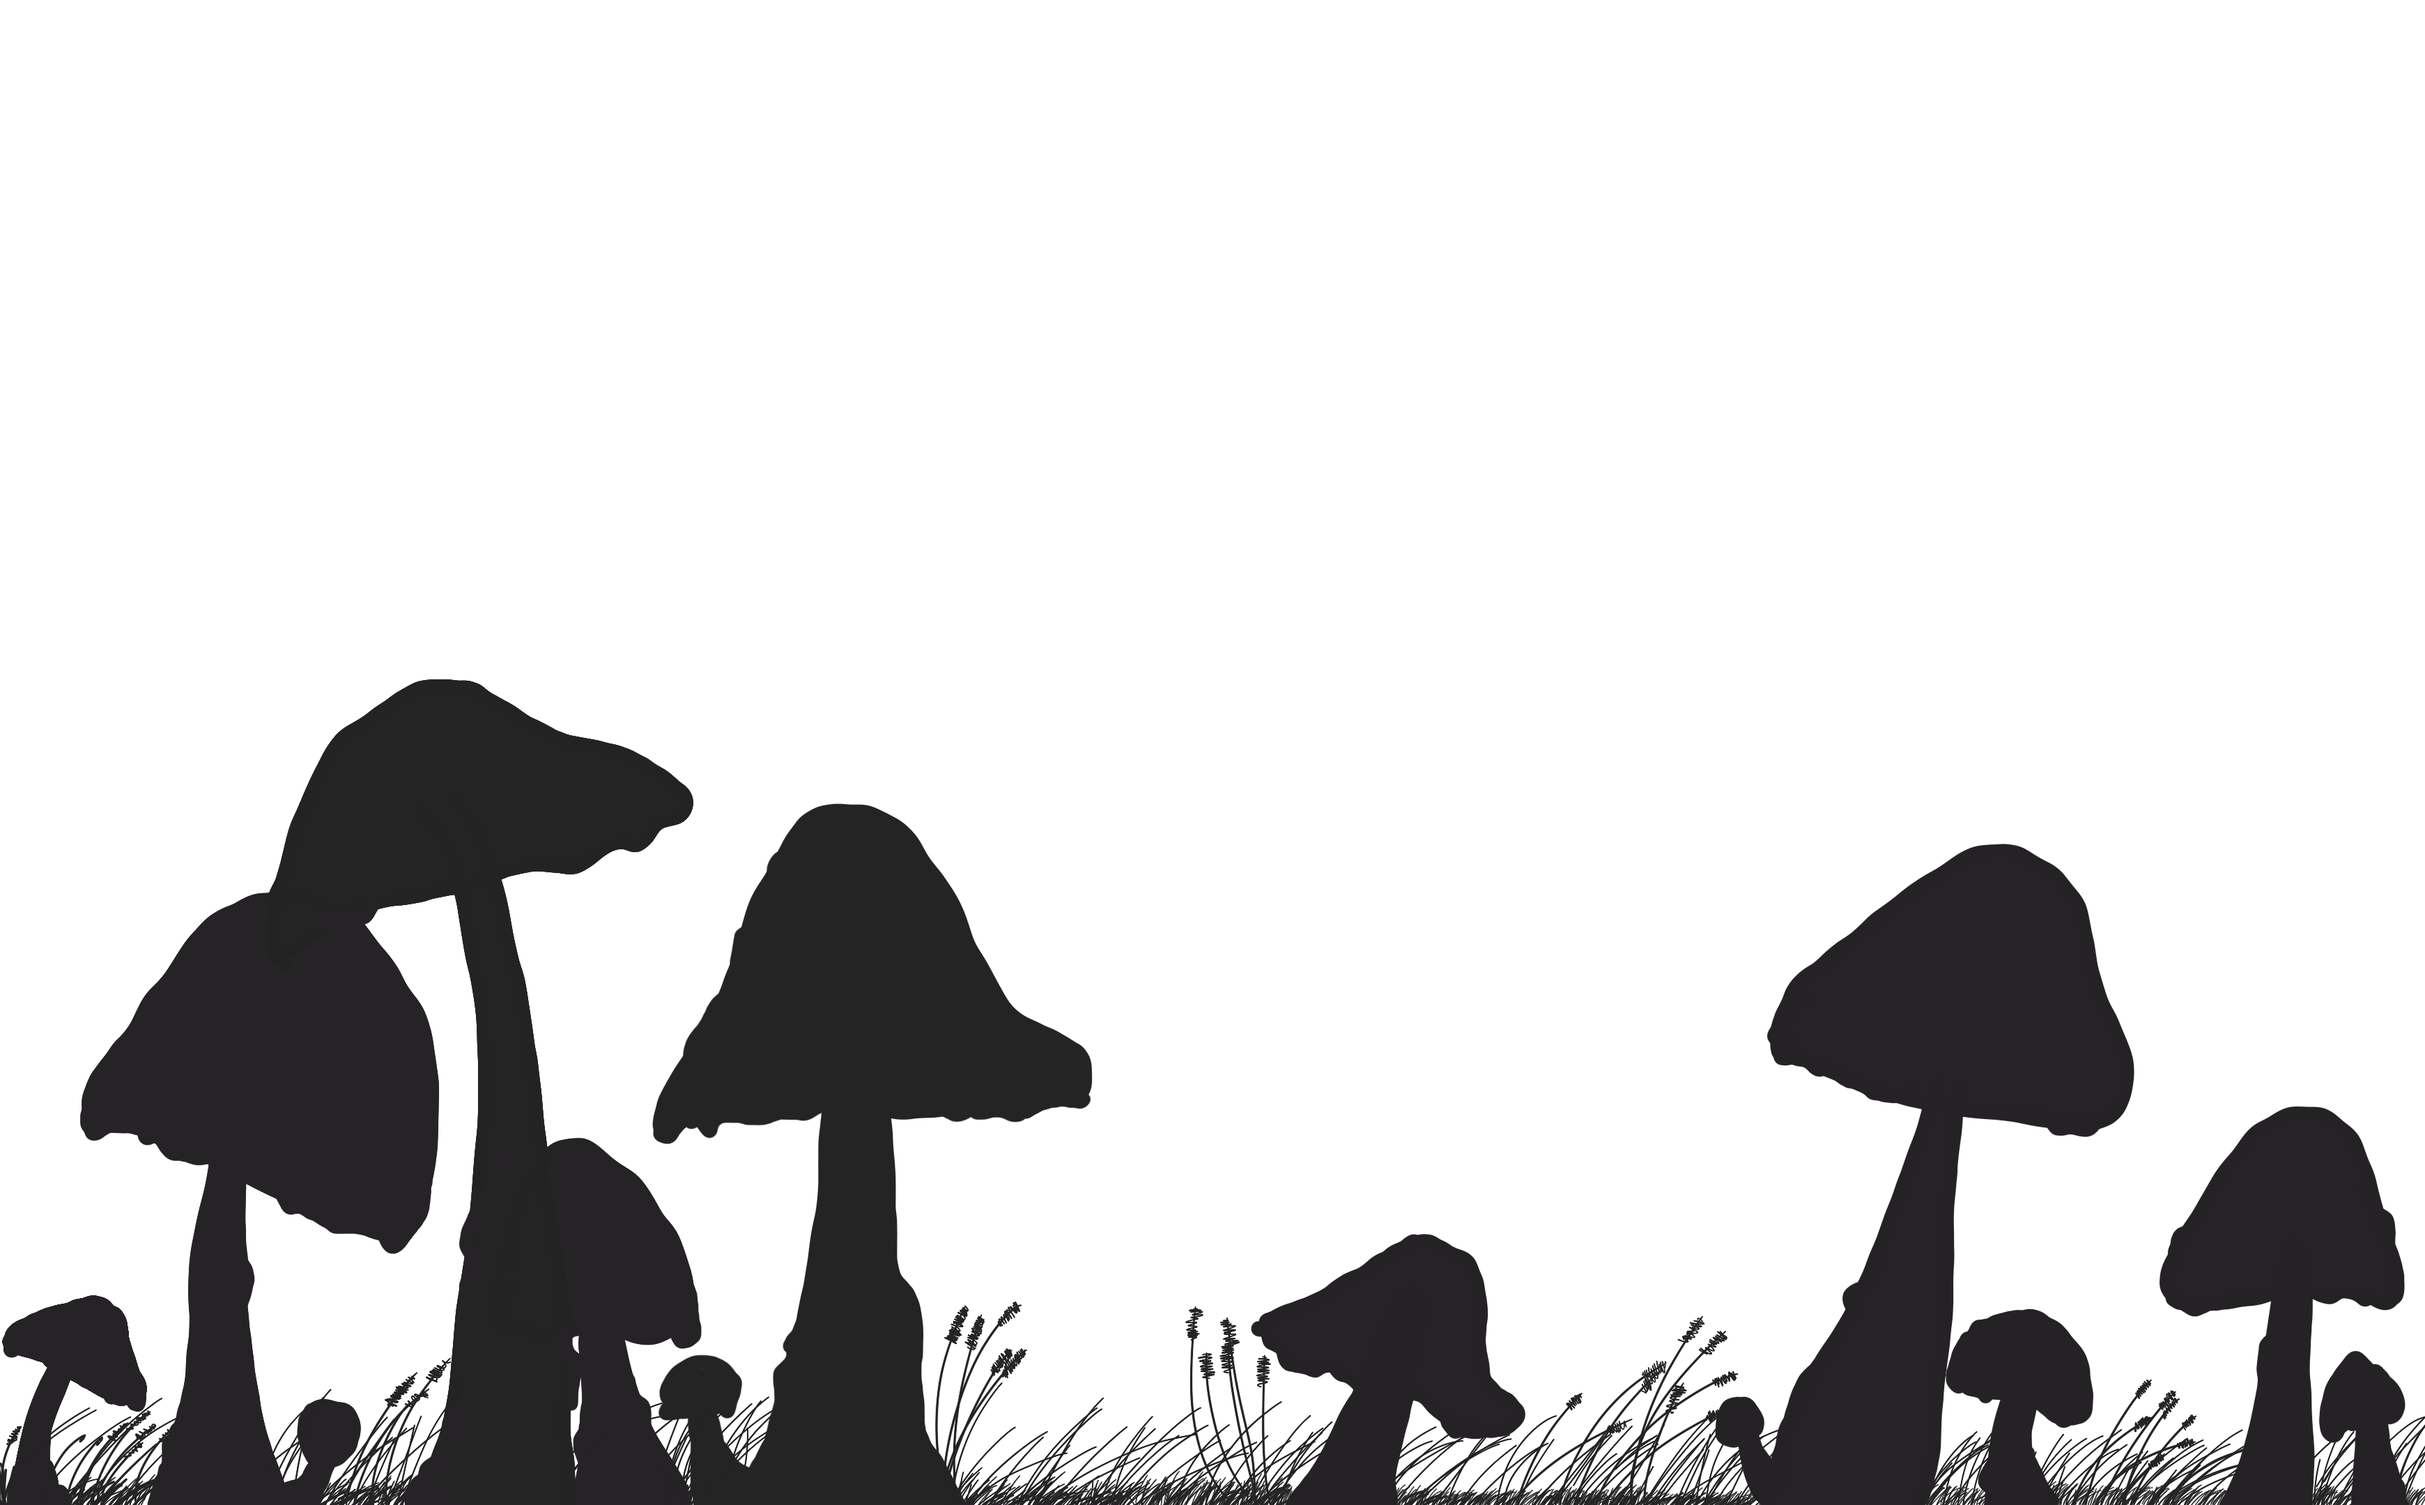
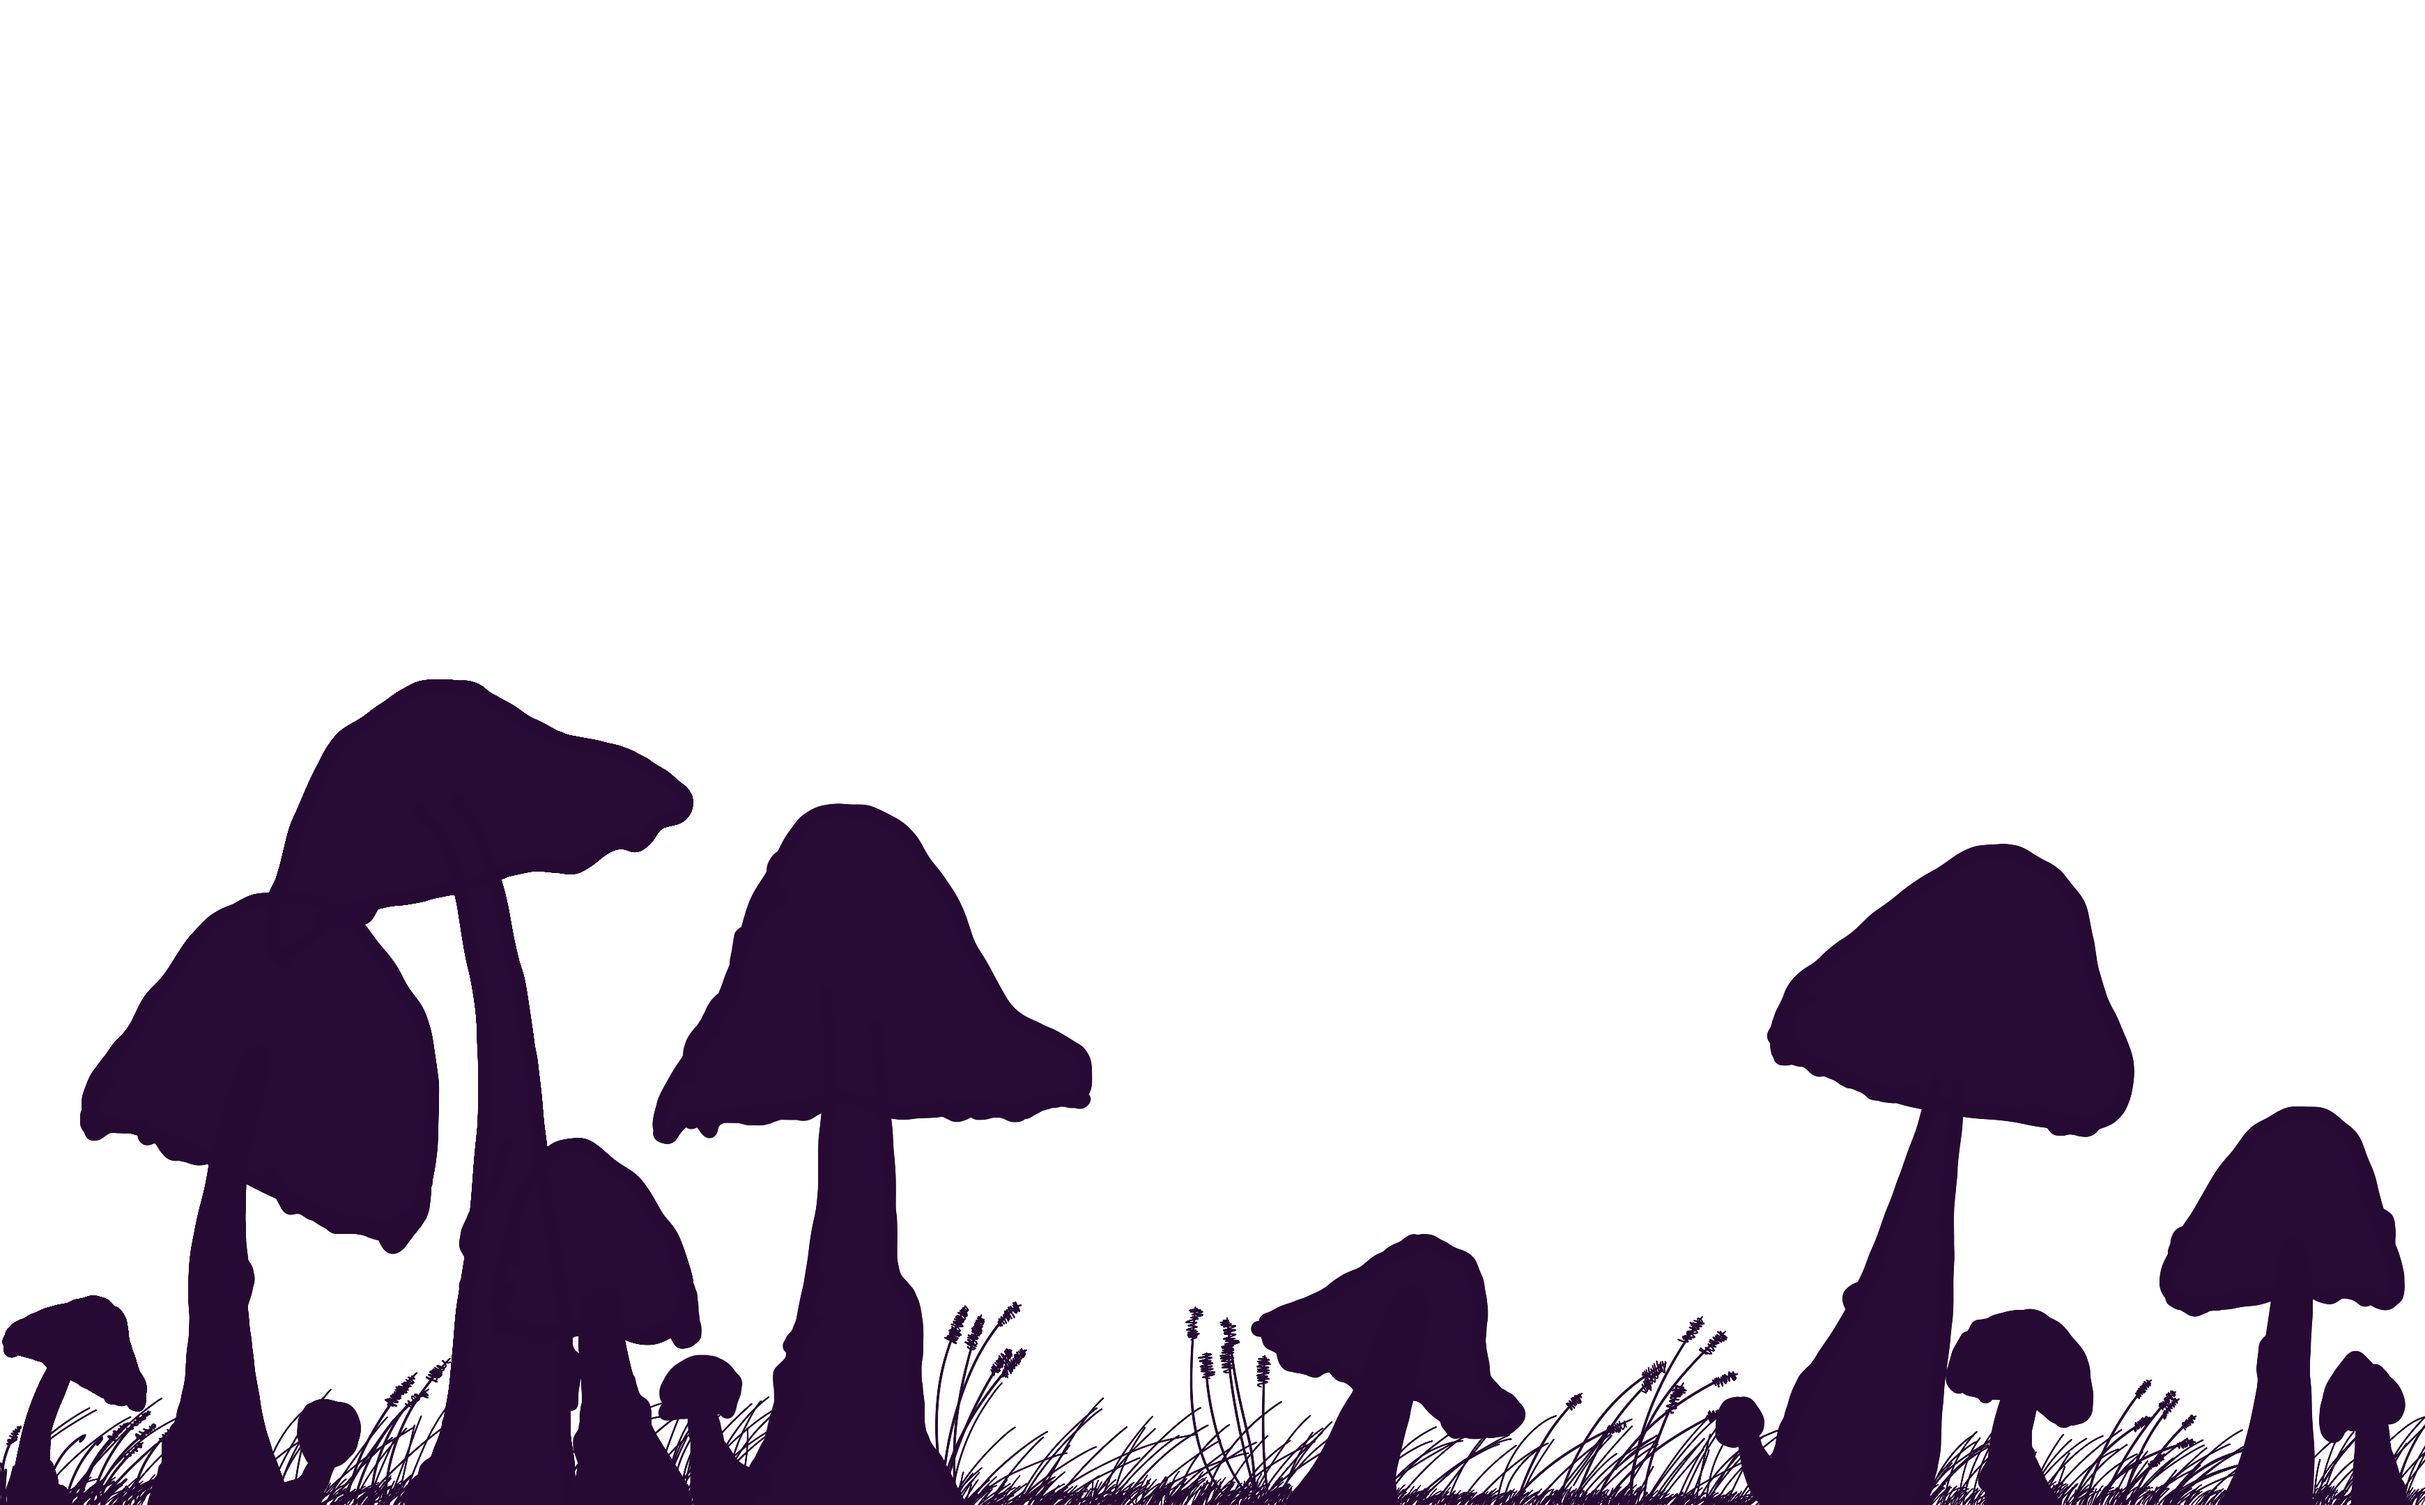
New commit

Changed region(s): [[0.0, 0.4343, 0.7448, 1.0], [0.7759, 0.9306, 1.0, 1.0]]

diff --git a/js/script.js b/js/script.js
@@ -23,6 +23,31 @@ enterButton.addEventListener("click", function () {
   }, 3000);
 });
 
+// ANIMATION: appearence from top to bottom
+const headingsToAnimate = document.querySelectorAll("h1, h2");
+const pToAnimate = document.querySelectorAll("p");
+
+// Creating an Intersection Observer instance
+const observer = new IntersectionObserver((entries) => {
+  entries.forEach((entry) => {
+    if (entry.isIntersecting) {
+      // Add the 'animate' class when the element is in the viewport
+      entry.target.classList.add("animate");
+      // Stop observing once animation is applied
+      observer.unobserve(entry.target);
+    }
+  });
+});
+
+// Start observing each heading element
+headingsToAnimate.forEach((heading) => {
+  observer.observe(heading);
+});
+
+pToAnimate.forEach((paragraph) => {
+  observer.observe(paragraph);
+});
+
 // IMPORTANCE SECTION
 // Function to check if an element is in the viewport
 function isElementInViewport(el) {
@@ -41,7 +66,7 @@ function animateImage() {
   const drippingImg = document.getElementById("dripping-img");
 
   if (isElementInViewport(drippingImg)) {
-    drippingImg.style.height = "50%";
+    drippingImg.style.height = "150px";
     drippingImg.style.transition = "1s";
   }
 }
@@ -55,30 +80,61 @@ animateImage();
 // FUNGI SECTION
 const fungiData = [
   {
+    id: "01",
     title: "Title 1",
     paragraph: "paragraph 1",
     imageSrc: "img/fungi1.PNG",
   },
   {
+    id: "02",
     title: "Title 2",
     paragraph: "paragraph 2",
     imageSrc: "img/fungi2.PNG",
   },
   {
+    id: "03",
     title: "Title 3",
     paragraph: "paragraph 3",
     imageSrc: "img/fungi3.PNG",
   },
   {
+    id: "04",
     title: "Title 4",
     paragraph: "paragraph 4",
     imageSrc: "img/fungi4.PNG",
+  },
+  {
+    id: "05",
+    title: "Title 5",
+    paragraph: "paragraph 5",
+    imageSrc: "img/fungi5.PNG",
+  },
+  {
+    id: "06",
+    title: "Title 6",
+    paragraph: "paragraph 6",
+    imageSrc: "img/fungi6.PNG",
+  },
+  {
+    id: "07",
+    title: "Title 7",
+    paragraph: "paragraph 7",
+    imageSrc: "img/fungi7.PNG",
+  },
+  {
+    id: "08",
+    title: "Title 8",
+    paragraph: "paragraph 8",
+    imageSrc: "img/fungi8.PNG",
   },
 ];
 
 const fungiSection = document.getElementById("fungi");
 
 fungiData.forEach((data) => {
+  const span = document.createElement("span");
+  span.textContent = data.id;
+
   const h2 = document.createElement("h2");
   h2.textContent = data.title;
 
@@ -88,7 +144,9 @@ fungiData.forEach((data) => {
 
   const paragraph = document.createElement("p");
   paragraph.textContent = data.paragraph;
+  paragraph.classList.add("animate");
 
+  fungiSection.appendChild(span);
   fungiSection.appendChild(h2);
   fungiSection.appendChild(img);
   fungiSection.appendChild(paragraph);

diff --git a/css/style.css b/css/style.css
@@ -13,13 +13,31 @@ html {
 body {
     font-family: 'Roboto', sans-serif;
     overflow-x: hidden;
+    color: #FFFAE3;
 }
 
 h1, h2 {
     font-family: 'Bricolage Grotesque', sans-serif;
     padding: 1rem 0 0.5rem 0;
-    color: #294D4A;
+    /* Animation with JS */
+    opacity: 0;
+    transform: translateY(20px);
+    transition: 1s ease;
+    
 }
+
+p {
+    max-width: 600px;
+    /* Animation with JS */
+    opacity: 0;
+    transform: translateY(20px);
+    transition: 1s ease 0.5s ;
+}
+
+.animate {
+    opacity: 1;
+    transform: translateY(0);
+  }
 
 button {
     padding: 0.5rem 1rem;
@@ -31,9 +49,6 @@ button {
     cursor: pointer;
 }
 
-p {
-    max-width: 600px;
-}
 /* MOBILE-FIRST APPROACH */
 /* First view */
 
@@ -74,8 +89,9 @@ p {
     position: relative;
     background-image: url("../img/stars.PNG");
     background-size: cover;
-    background-image: linear-gradient(to bottom, #a9fff7, #acf7ff, #c7ebff, #e4deff, #f5d5ed);
+    background-image: linear-gradient(to bottom, #280a35, #3f184e, #572769, #703784, #8b47a1);
     z-index: -100;
+    
 }
 
 #moon-sun {
@@ -107,11 +123,9 @@ p {
     z-index: -12;
 }
 
-.view:nth-child(2) figure img:nth-child(2) {
+.view:nth-child(2) figure img:last-child {
     z-index: 3;
 }
-
-
 
 /* Main
 Importance section */
@@ -119,14 +133,13 @@ Importance section */
 #importance {
     padding-top: 10vh;
     text-align: center;
-    background-color: #242324;
+    background-color: #290C36;
     display: grid;
     place-content: center;
     position: relative;
 }
 
 #importance h2, #importance p {
-    color: #FFFAE3;
     padding: 1rem;
 }
 
@@ -134,12 +147,23 @@ Importance section */
     position: absolute;
     left: 0;
     top:  100%;
-    height: 0%;
+    height: 0;
     width: 100%;
 }
 
 /* Fungi section */
-
+#fungi {
+    background-color: #FFFAE3;
+    margin-top: 150px;
+    color: #290C36;
+}
 #fungi h2{
     text-transform: lowercase;
+    opacity: 1;
+    transform: translateY(0);
+}
+
+
+#fungi img {
+    height: 300px;
 }
